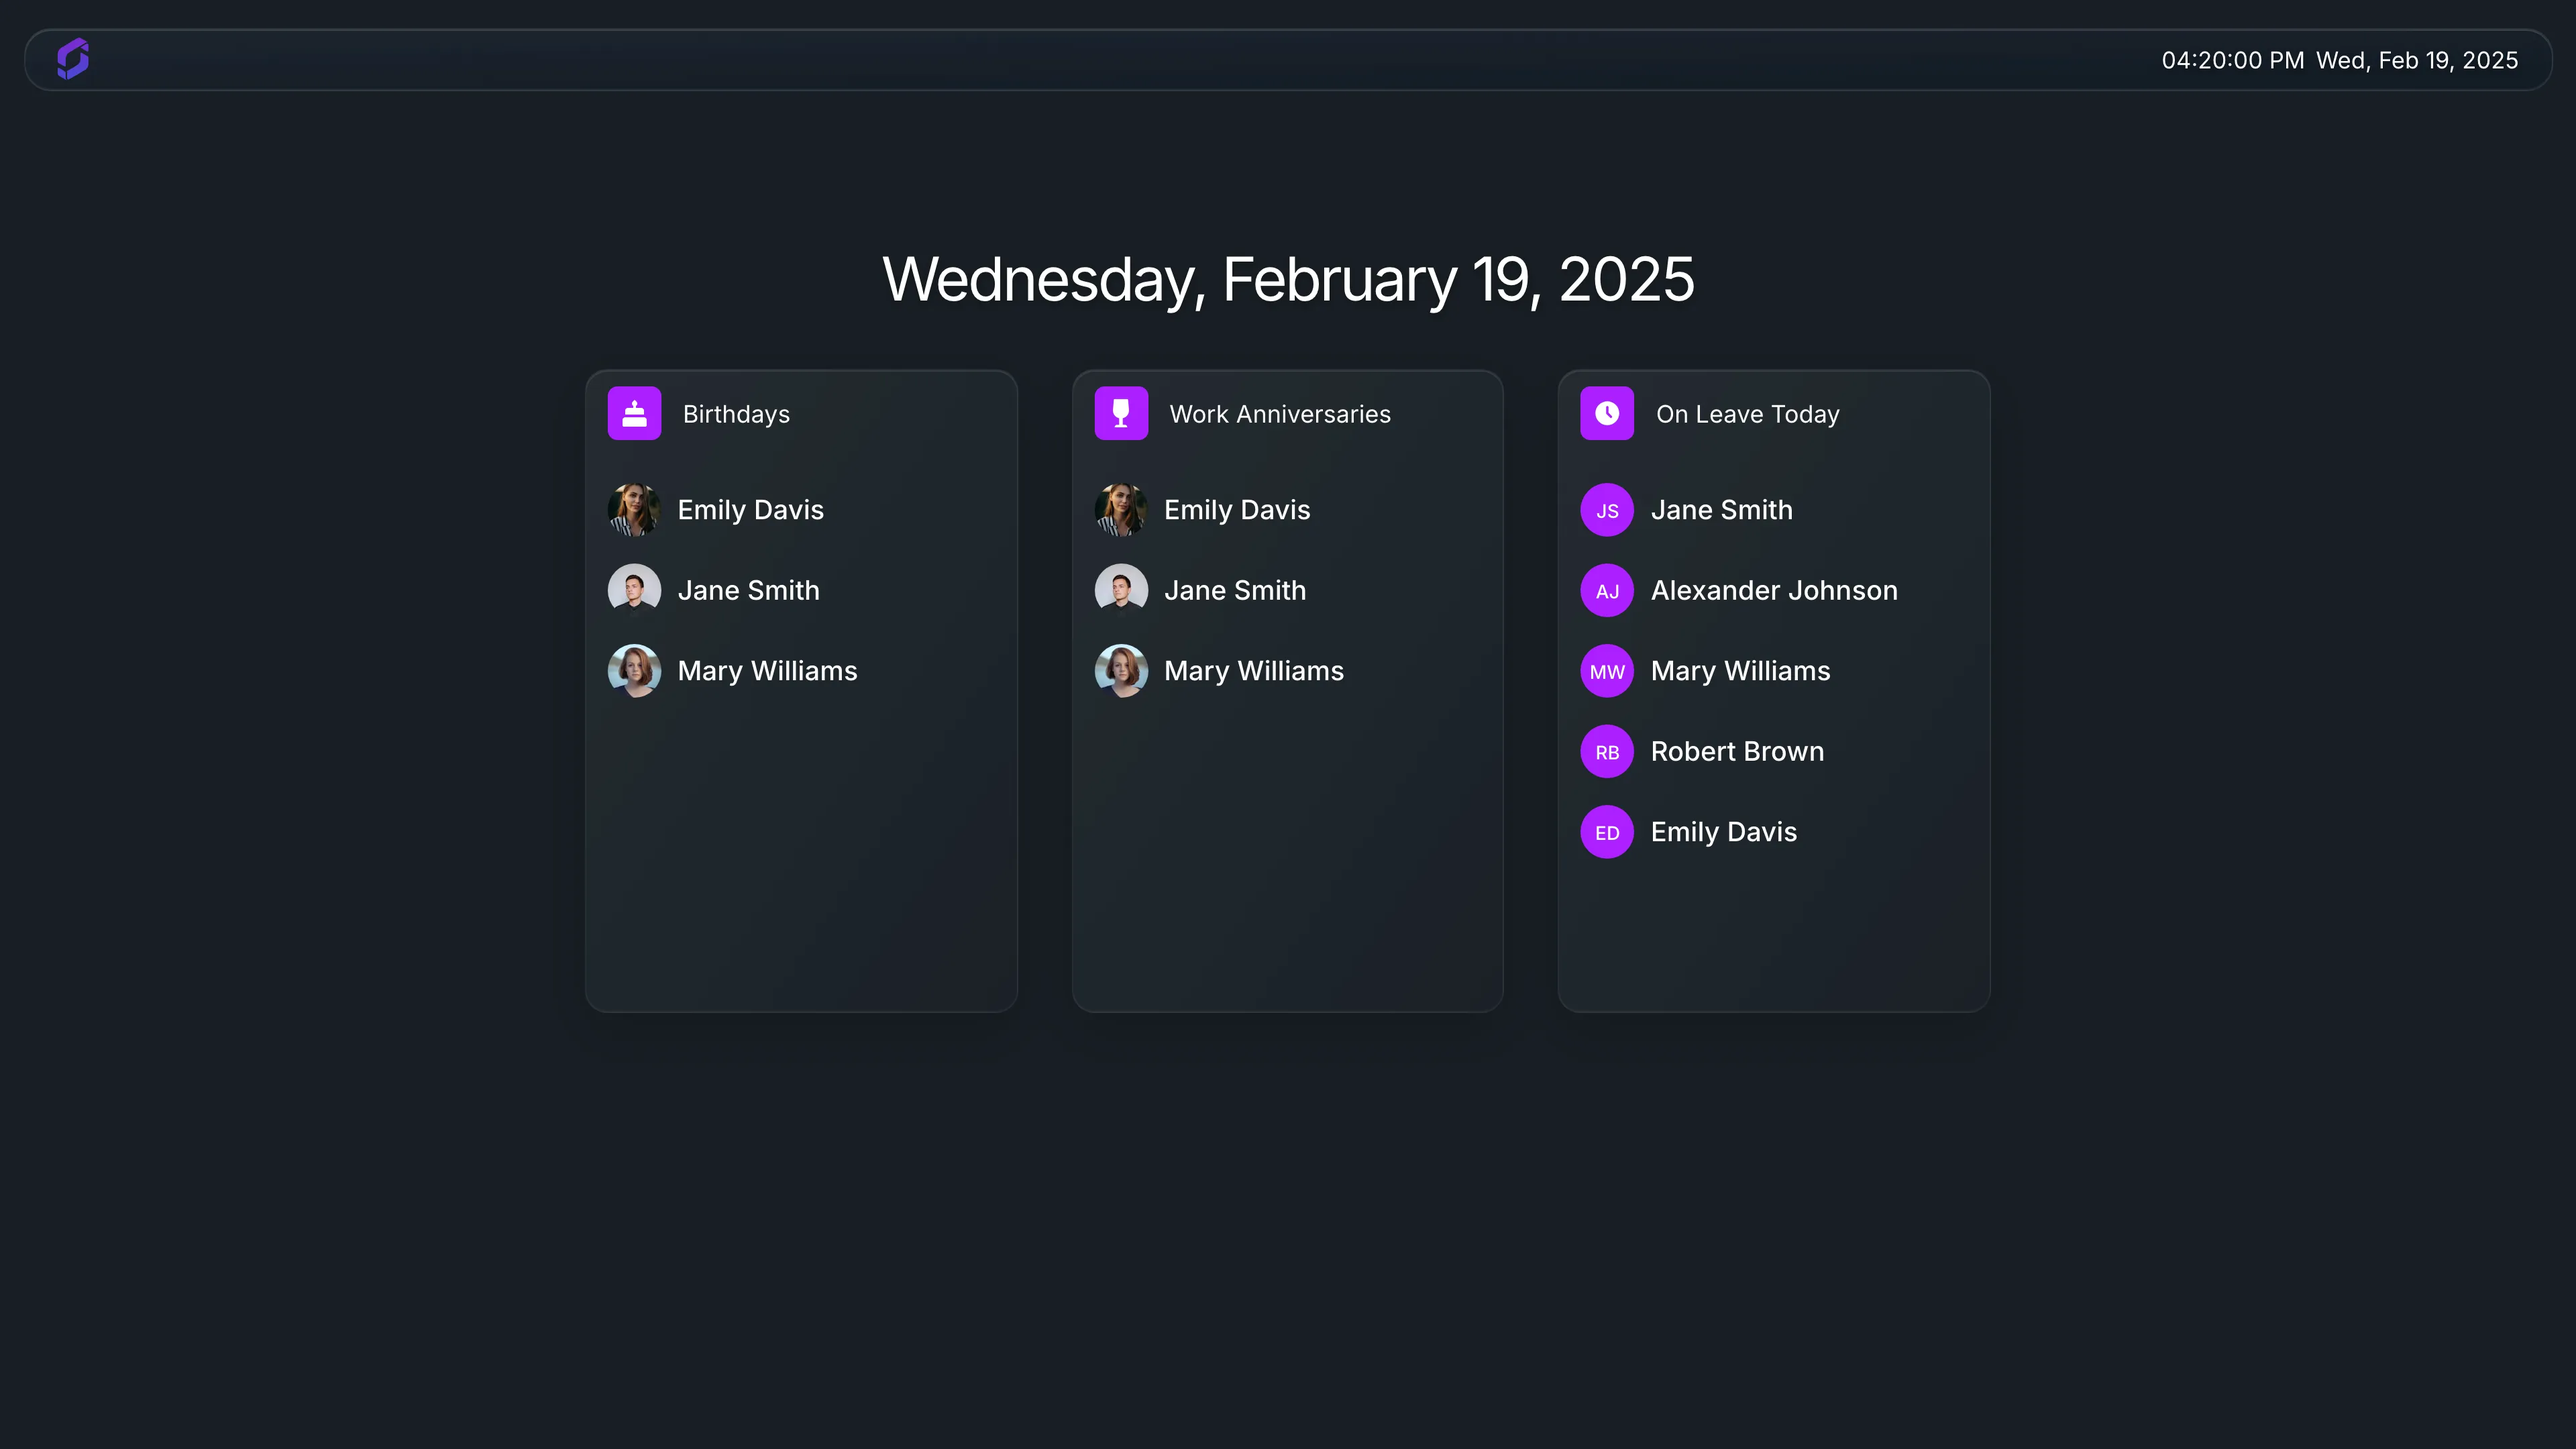
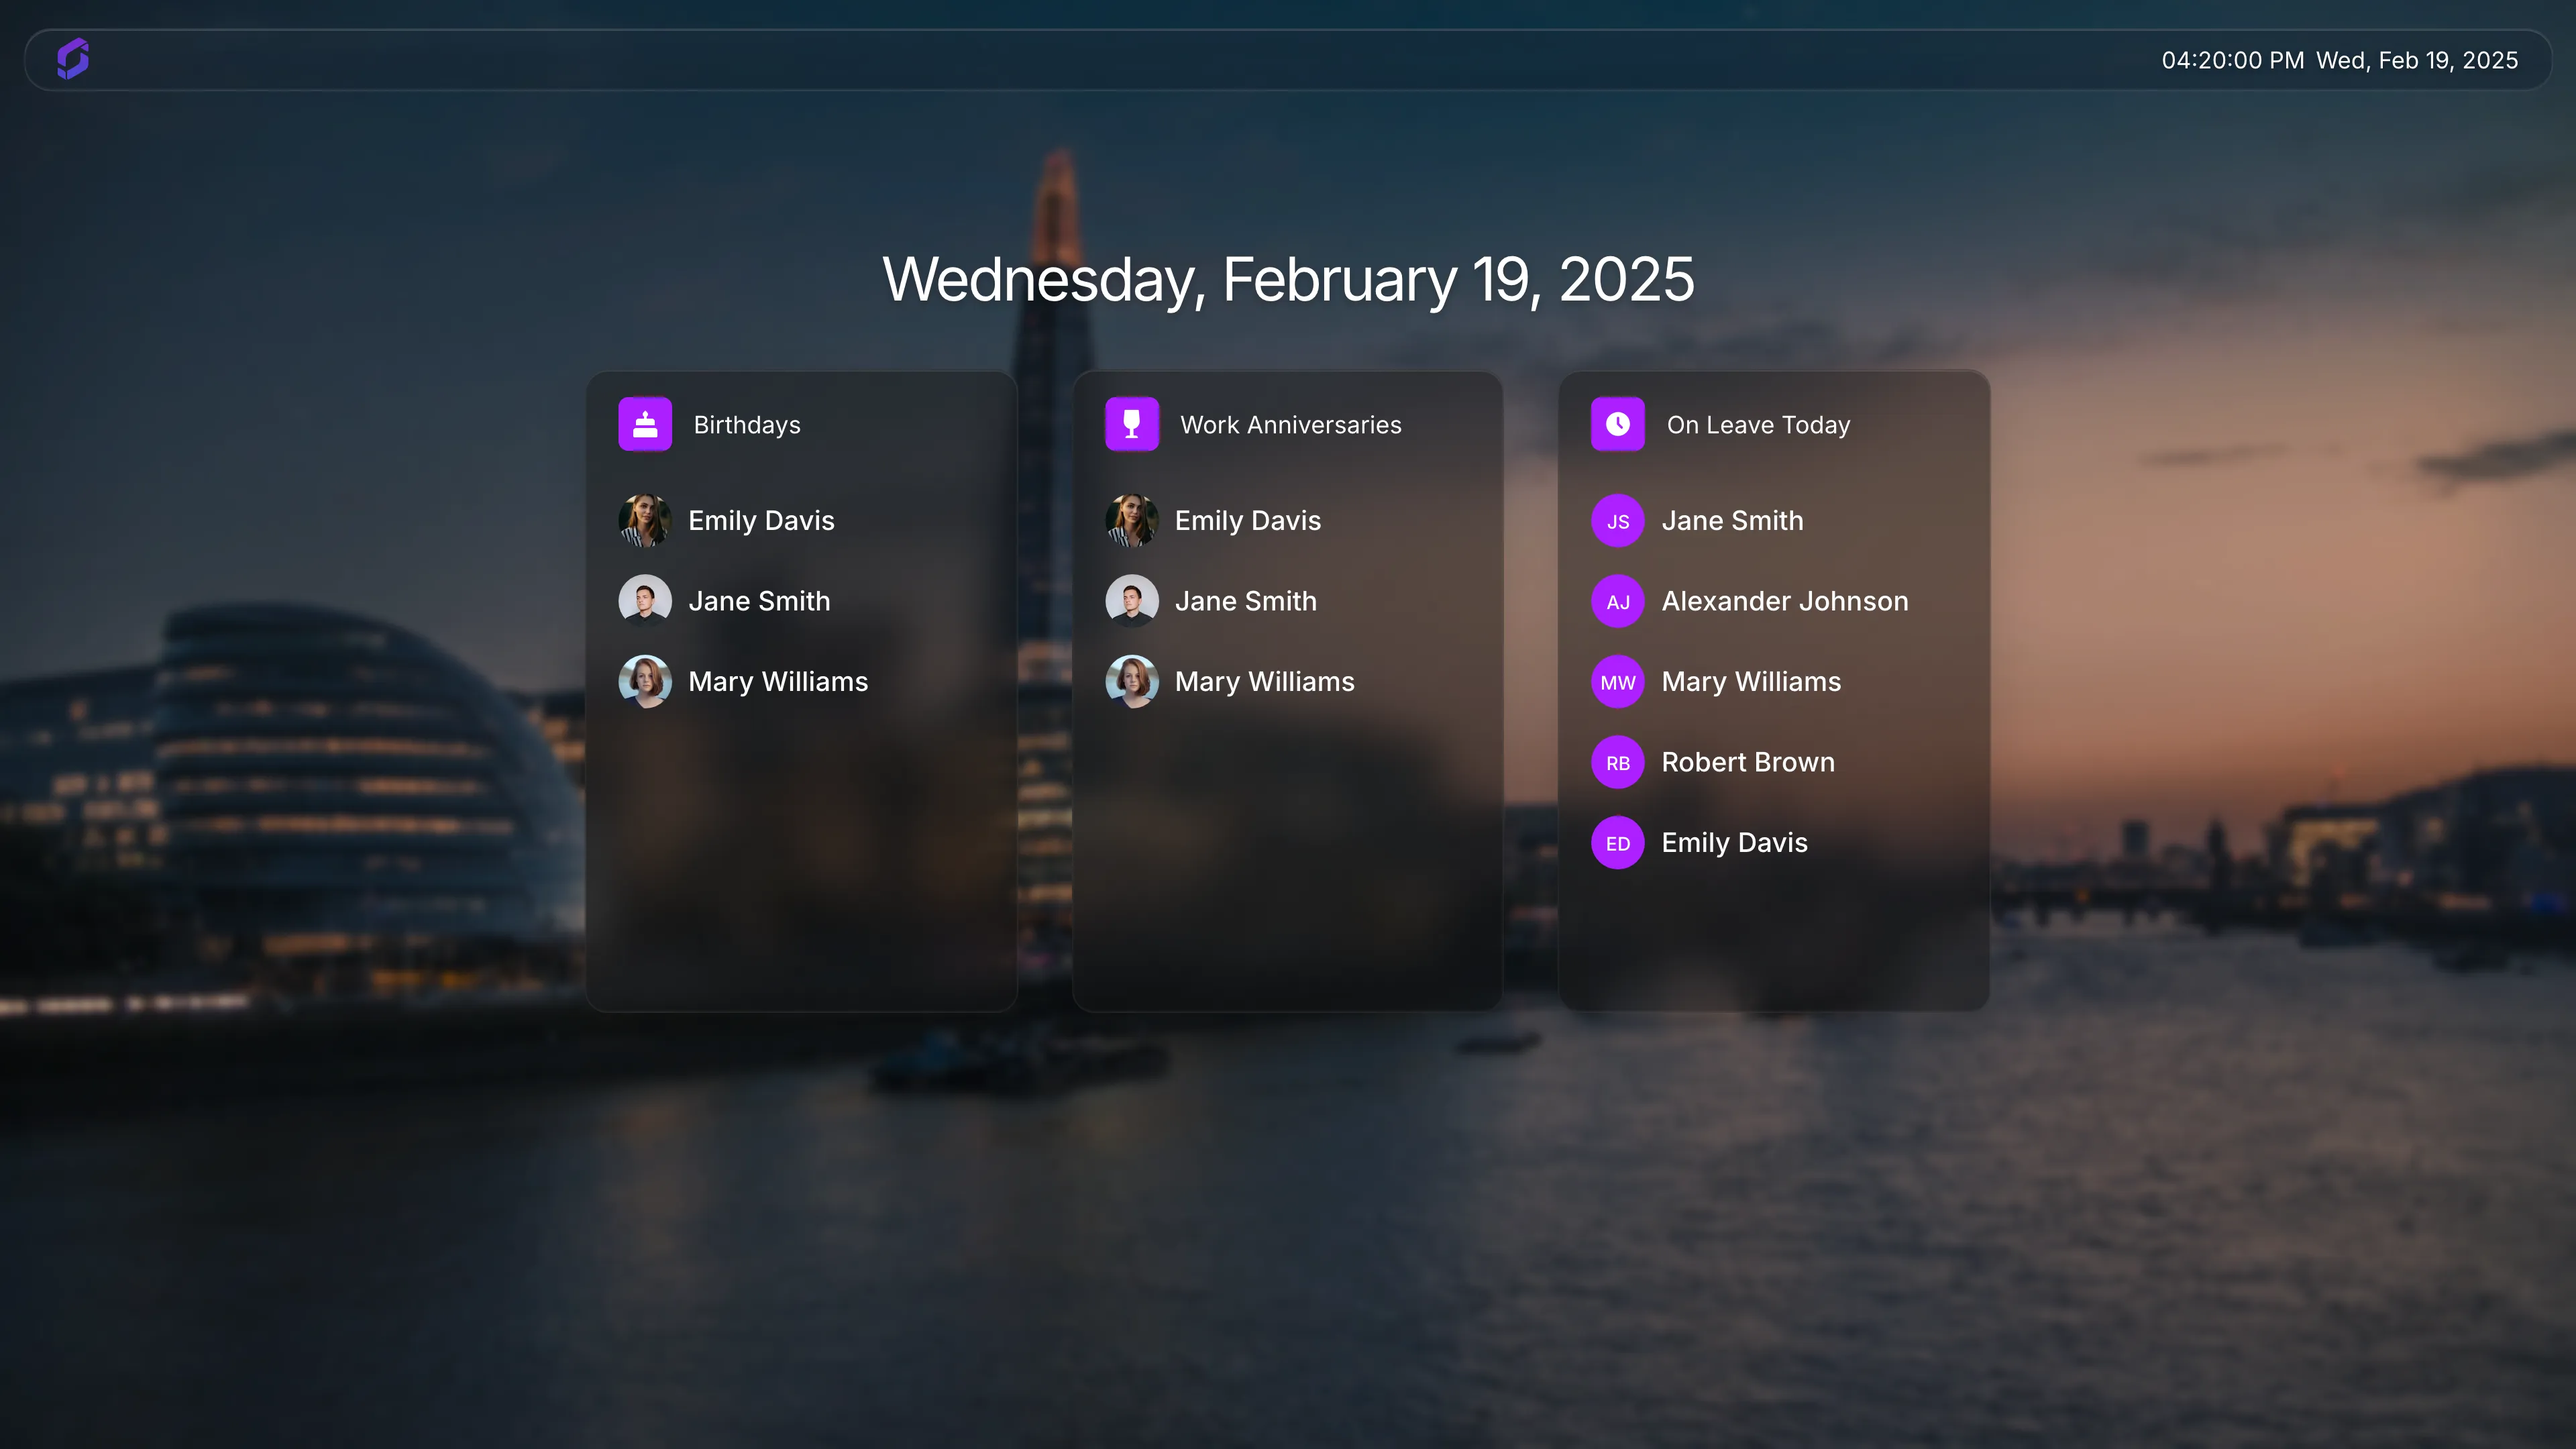
feat(bamboo-hr-app): add glassmorphic background and card styling
- Add blurred background image with body::before overlay
- Apply backdrop-filter blur to cards for frosted glass effect
- Darken card overlay with semi-transparent dark gradient layer
- Increase card padding in landscape and portrait modes
- Remove unused CSS variables and redundant flex-direction declaration

diff --git a/edge-apps/bamboo-hr-app/src/css/style.css b/edge-apps/bamboo-hr-app/src/css/style.css
@@ -9,14 +9,11 @@
 :root {
   --color-bg: #171e24;
   --color-card-border: rgba(255, 255, 255, 0.06);
-  --color-card-inset-top: rgba(255, 255, 255, 0.1);
-  --color-card-inset-bottom: rgba(255, 255, 255, 0.03);
   --color-topbar-border: rgba(255, 255, 255, 0.1);
   --color-icon-bg: #ac1fff;
   --color-white: #ffffff;
   --color-text-shadow: rgba(0, 0, 0, 0.25);
   --radius-card: 1.05rem;
-  --radius-icon: 0.455rem;
   --radius-topbar: 1.25rem;
   --radius-avatar: 50%;
 }
@@ -25,9 +22,26 @@ body {
   margin: 0;
   padding: 0;
   overflow: hidden;
+  background: url('/static/images/bg.webp') no-repeat center center;
+  background-size: cover;
   background-color: var(--color-bg);
   color: var(--color-white);
   font-family: Inter, system-ui, sans-serif;
+}
+
+body::before {
+  content: '';
+  position: fixed;
+  inset: 0;
+  z-index: var(--z-index-backdrop);
+  pointer-events: none;
+  background: rgba(0, 0, 0, 0.2);
+  backdrop-filter: blur(7px);
+}
+
+auto-scaler {
+  position: relative;
+  z-index: var(--z-index-content);
 }
 
 #app {
@@ -116,19 +130,26 @@ body {
   display: flex;
   flex-direction: column;
   gap: 2rem;
-  padding: 0.75rem 1rem;
+  padding: 1.25rem 1.5rem;
   height: 30rem;
   border-radius: var(--radius-card);
   border: 1.05px solid var(--color-card-border);
-  background-image: linear-gradient(
-    123.91deg,
-    rgba(255, 255, 255, 0.06) 0%,
-    rgba(255, 255, 255, 0.01) 100%
-  );
+  background-image:
+    linear-gradient(
+      90deg,
+      rgba(10, 10, 10, 0.45) 0%,
+      rgba(10, 10, 10, 0.45) 100%
+    ),
+    linear-gradient(
+      123.91deg,
+      rgba(255, 255, 255, 0.06) 0%,
+      rgba(255, 255, 255, 0.01) 100%
+    );
   box-shadow:
     0 0.84rem 2.52rem rgba(0, 0, 0, 0.15),
     inset 0 1.05px 0 rgba(255, 255, 255, 0.1),
     inset 0 -1.05px 0 rgba(255, 255, 255, 0.03);
+  backdrop-filter: blur(1rem);
   overflow: hidden;
 }
 
@@ -222,7 +243,6 @@ body {
 
 .avatar-group {
   display: flex;
-  flex-direction: row;
 }
 
 .avatar-group .avatar,
@@ -273,7 +293,7 @@ body {
 
   .card {
     height: auto;
-    padding: 1.5rem;
+    padding: 1.75rem 2rem;
     gap: 1.5rem;
   }
 
